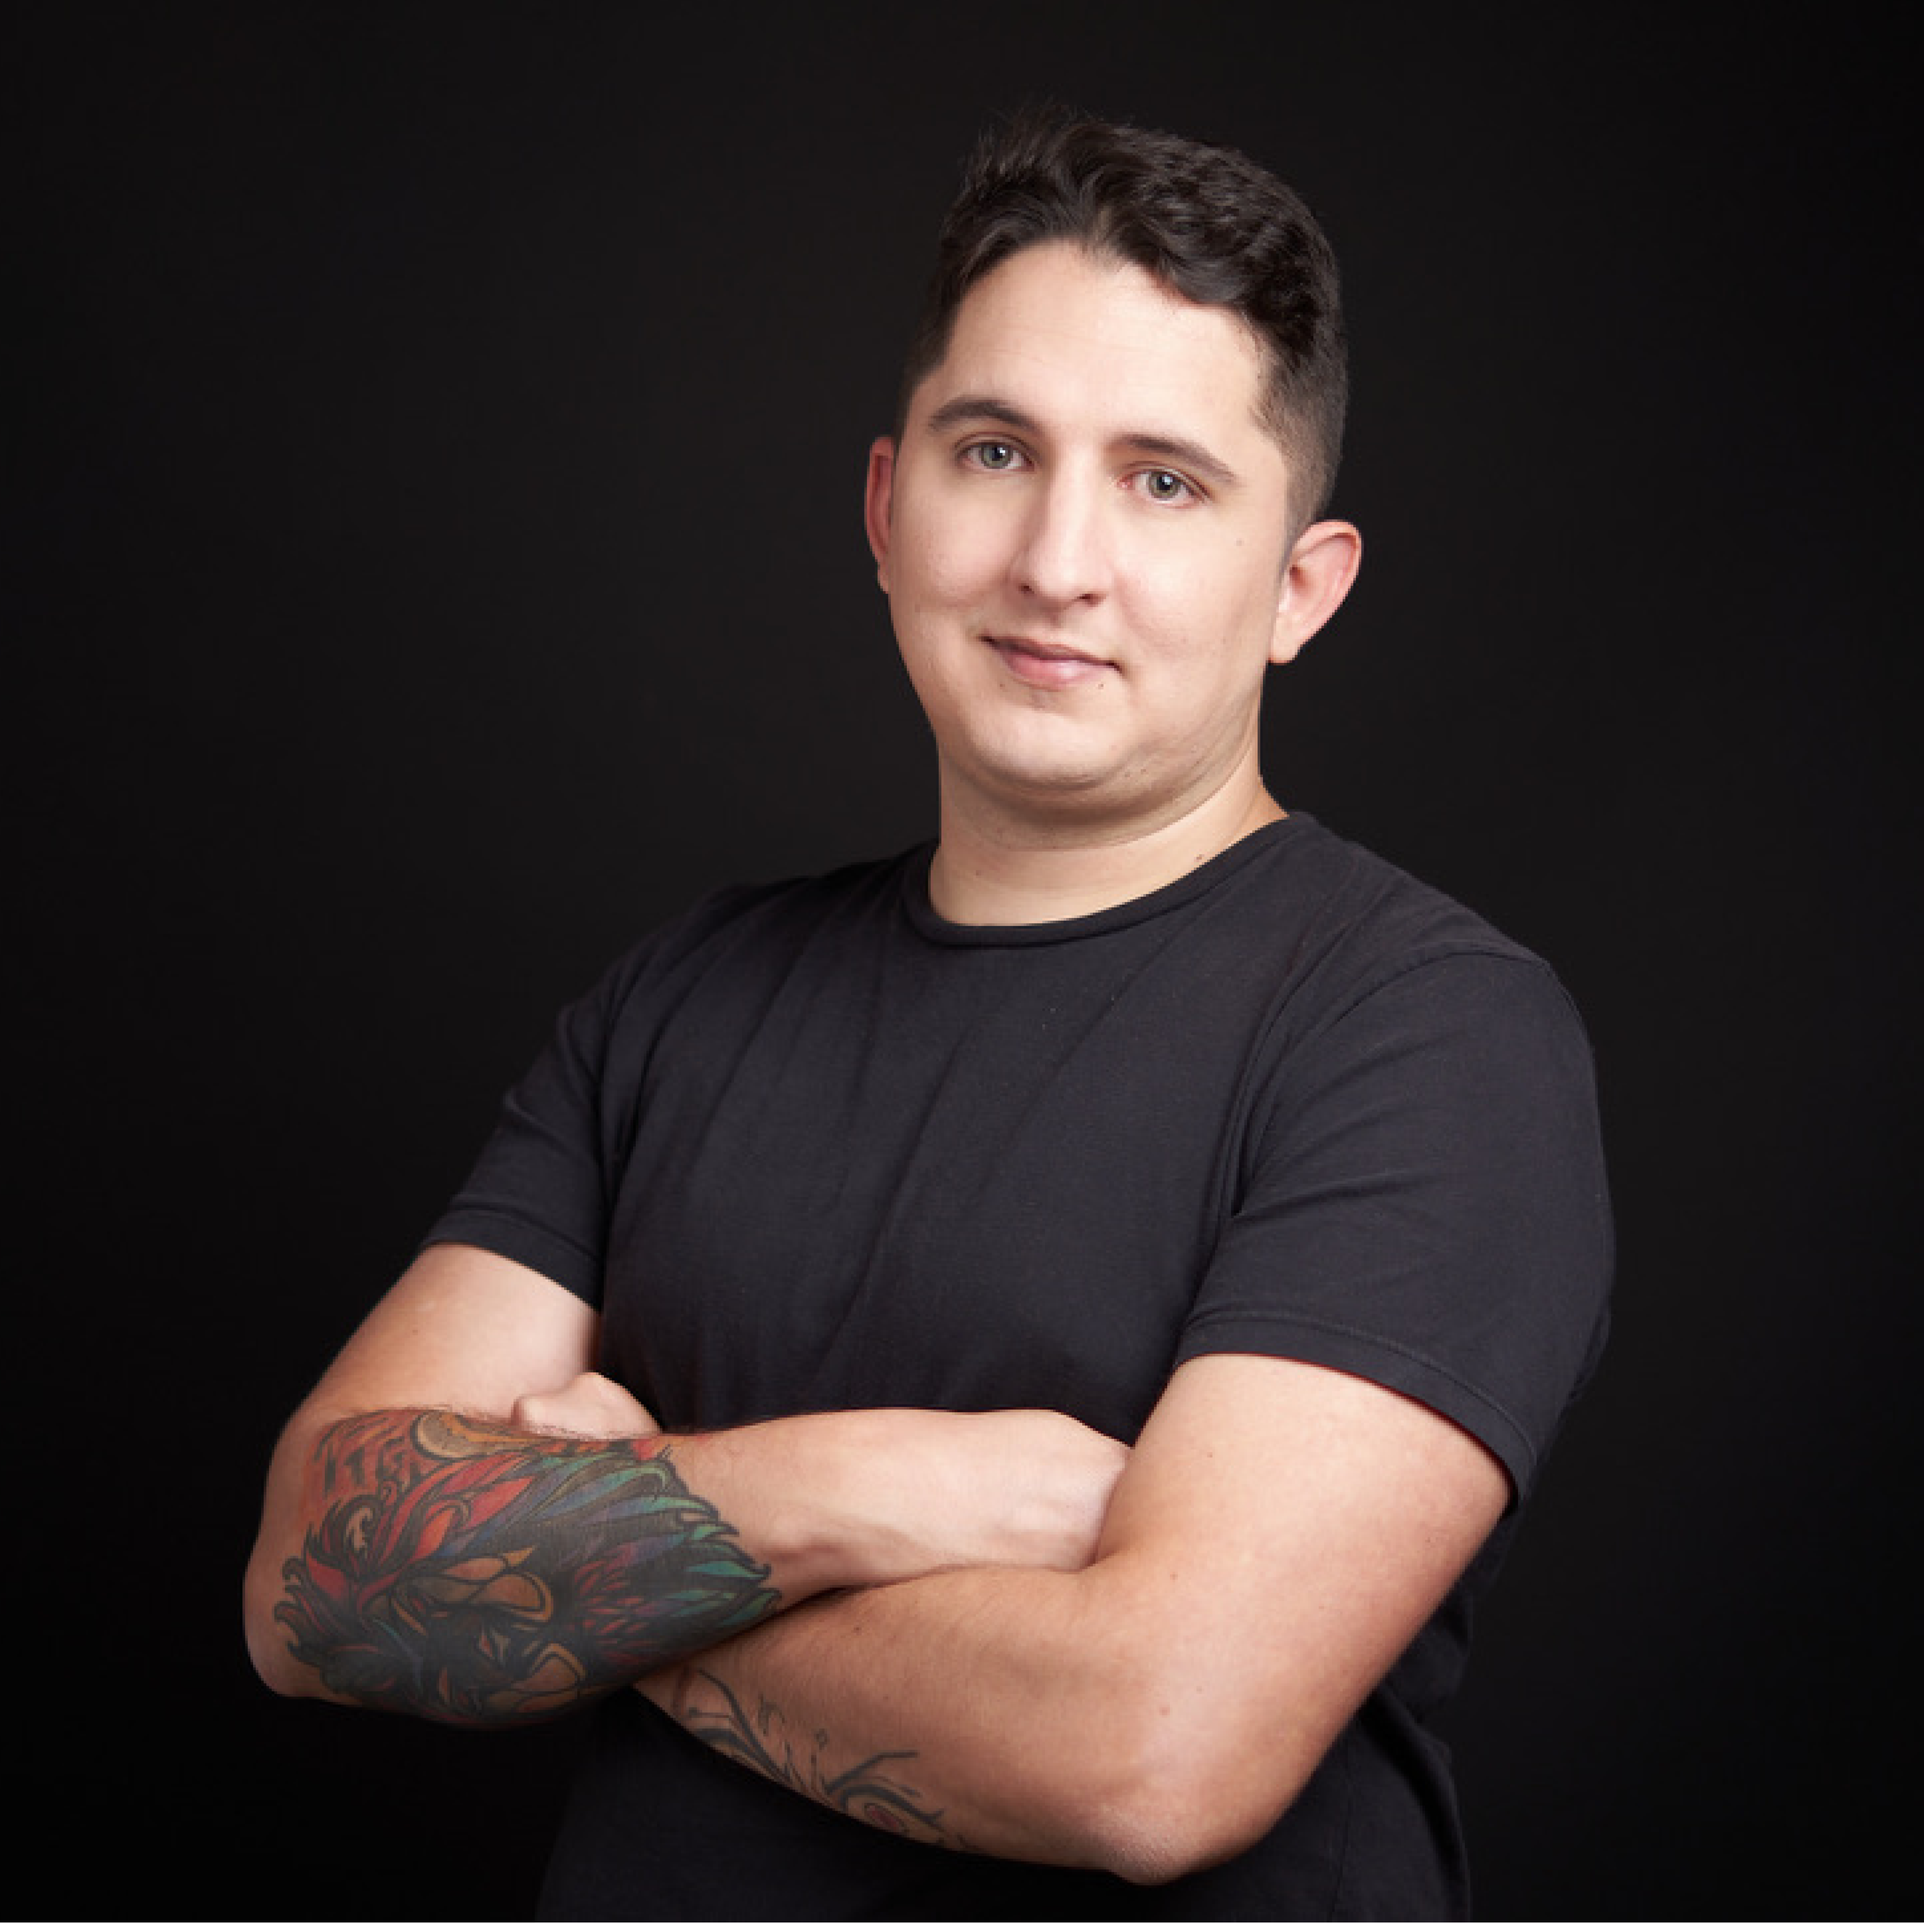
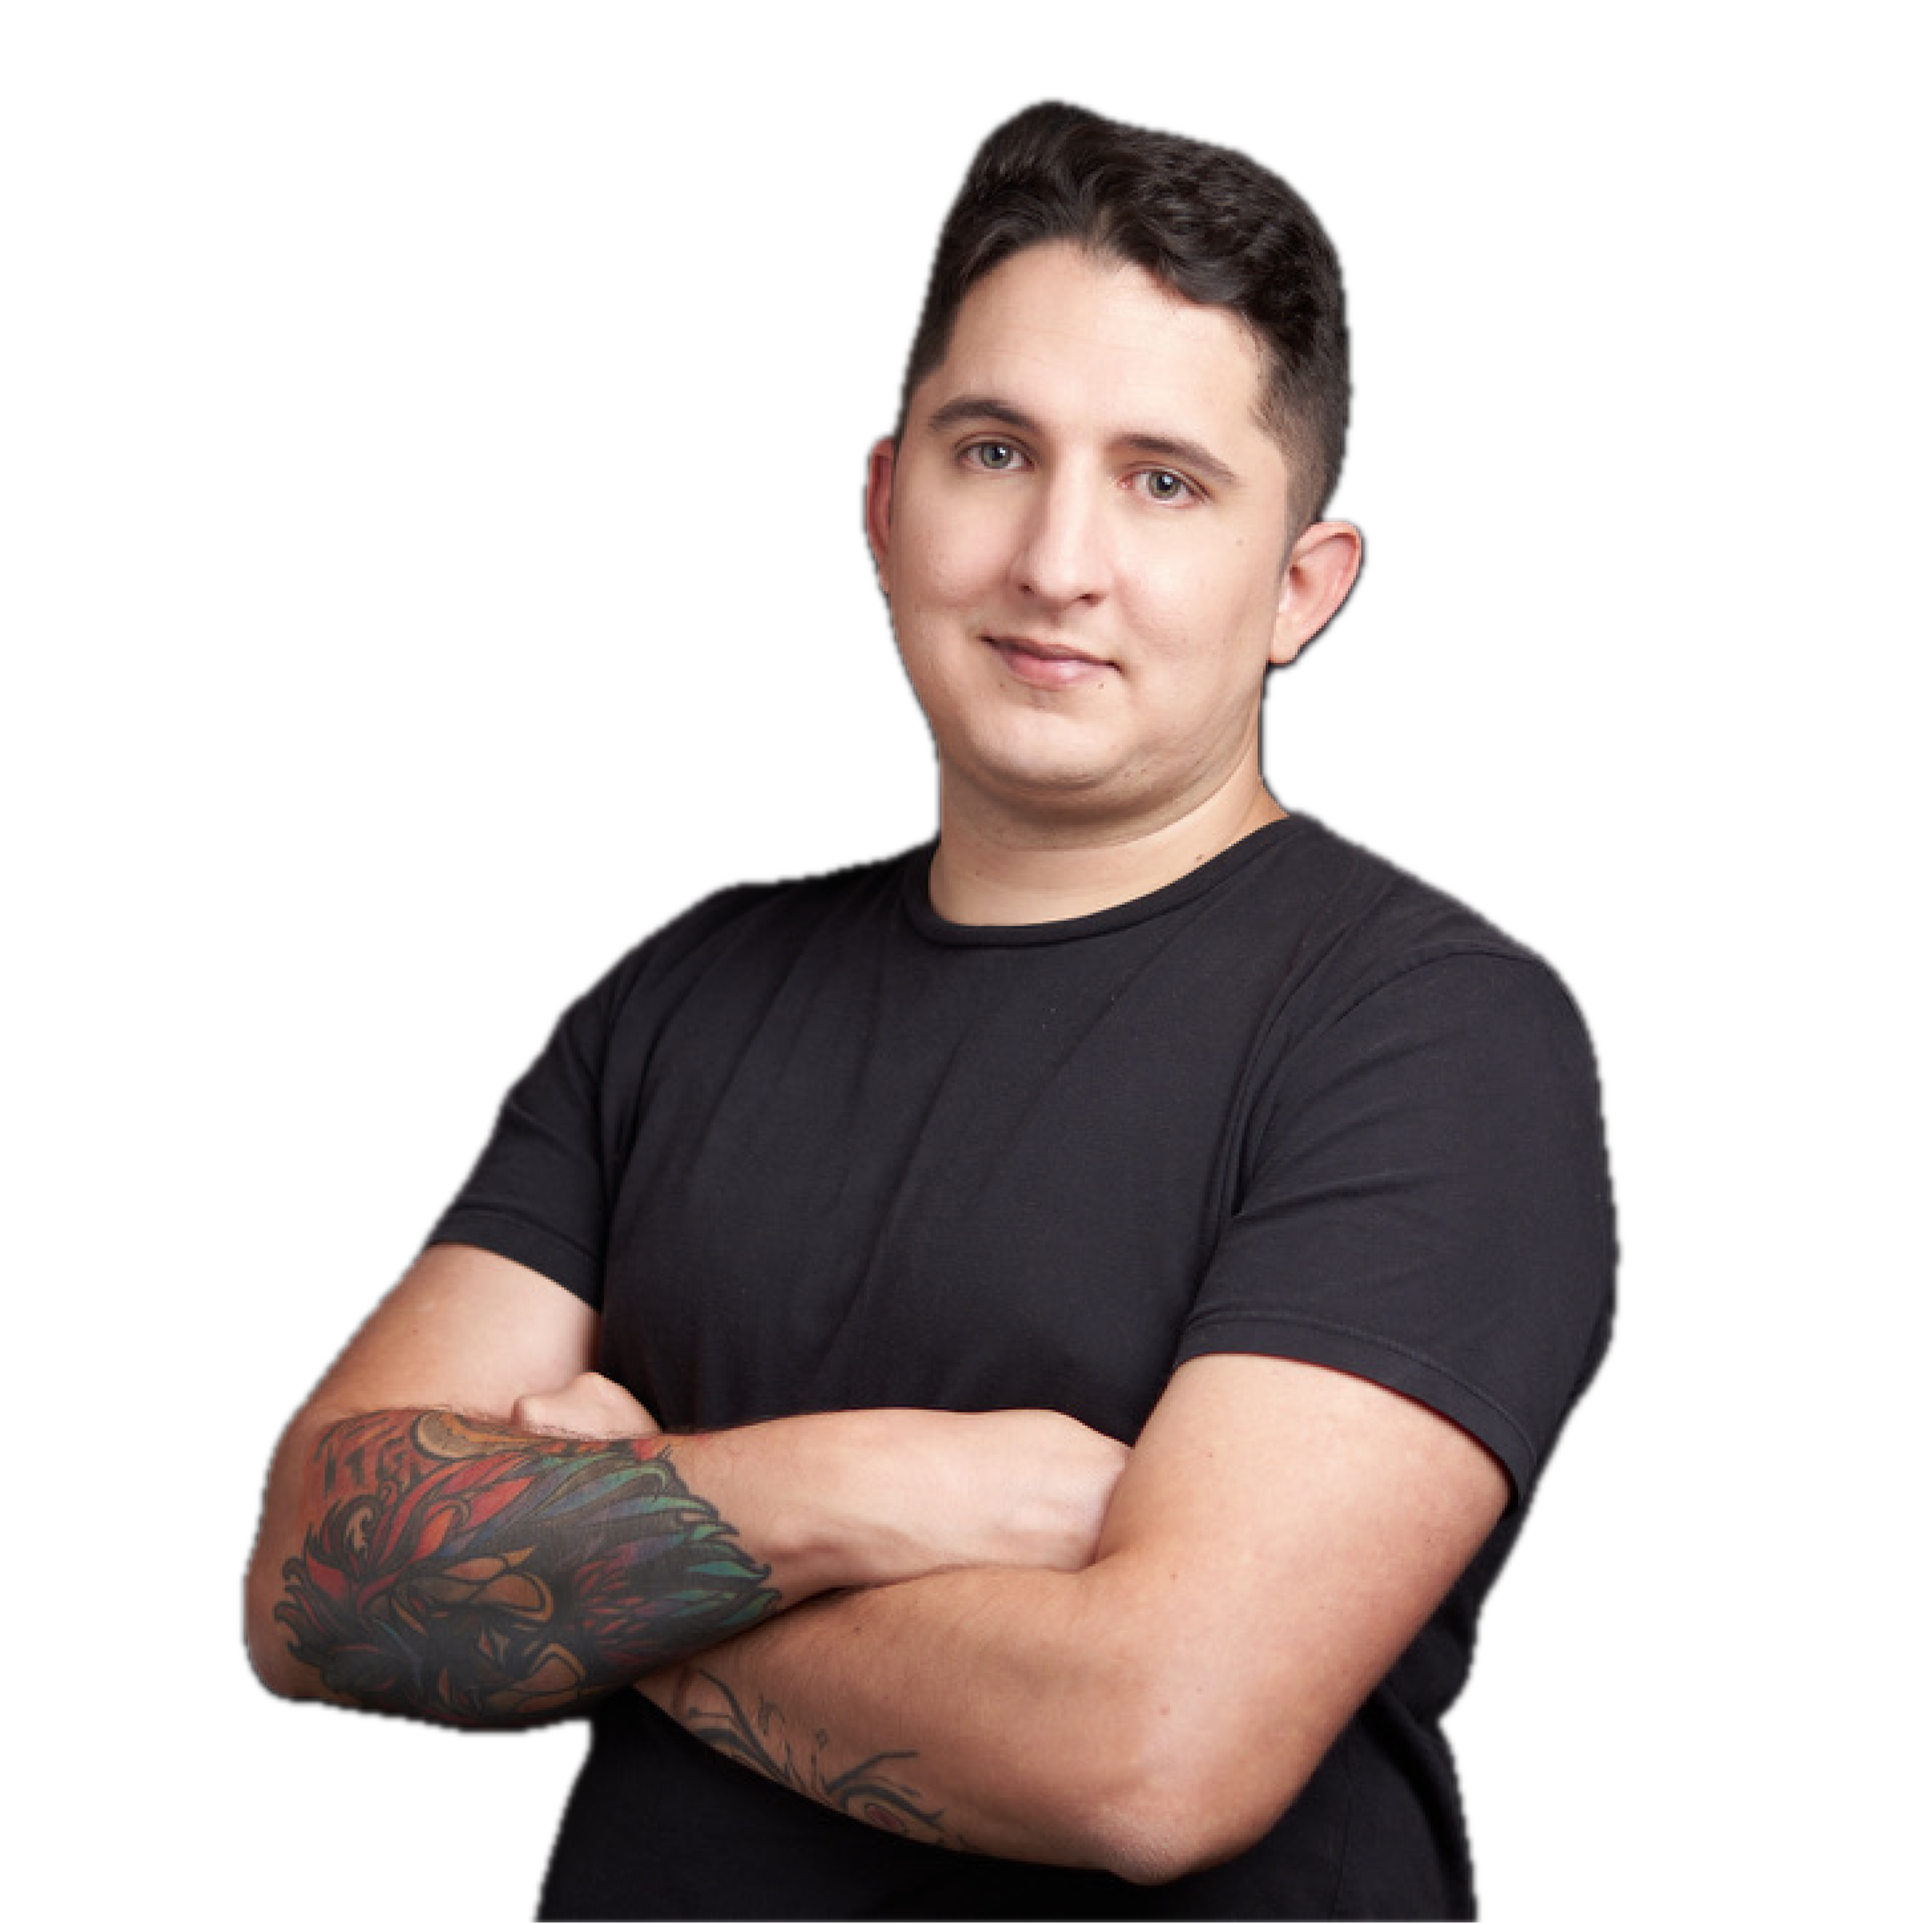
fix: Correct syntax error in index.js and update profile image asset

diff --git a/src/index.js b/src/index.js
@@ -1,1 +1,1 @@
-const nueva = "Variable"
+const nueva = "Variable";
